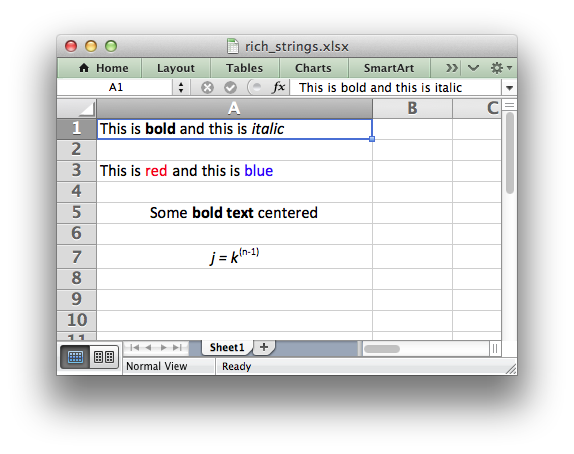
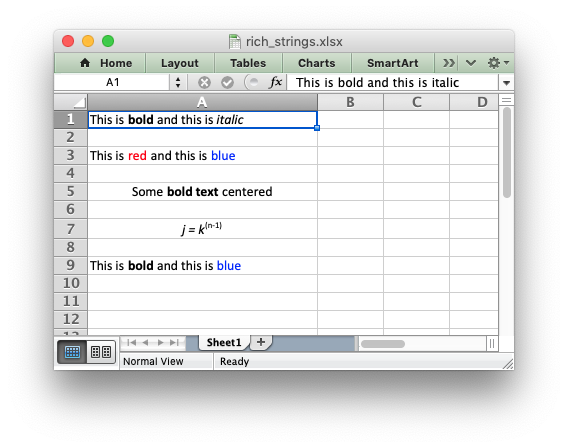
Added some clarifications to write_rich_string() docs.

Changed region(s): [[0.0599, 0.0625, 0.9278, 0.9062]]

diff --git a/examples/rich_strings.py b/examples/rich_strings.py
@@ -45,4 +45,8 @@ worksheet.write_rich_string('A7',
                             superscript, '(n-1)',
                             center)
 
+# If you have formats and segments in a list you can add them like this:
+segments = ['This is ', bold, 'bold', ' and this is ', blue, 'blue']
+worksheet.write_rich_string('A9', *segments)
+
 workbook.close()

diff --git a/dev/docs/source/worksheet.rst b/dev/docs/source/worksheet.rst
@@ -786,6 +786,12 @@ example below but it would be equivalent to the second::
                                  bold,    'bold',
                                  default, ' text')
 
+If you have formats and segments in a list you can add them like this, using
+the standard Python list unpacking syntax::
+
+    segments = ['This is ', bold, 'bold', ' and this is ', blue, 'blue']
+    worksheet.write_rich_string('A9', *segments)
+
 In Excel only the font properties of the format such as font name, style, size,
 underline, color and effects are applied to the string fragments in a rich
 string. Other features such as border, background, text wrap and alignment
